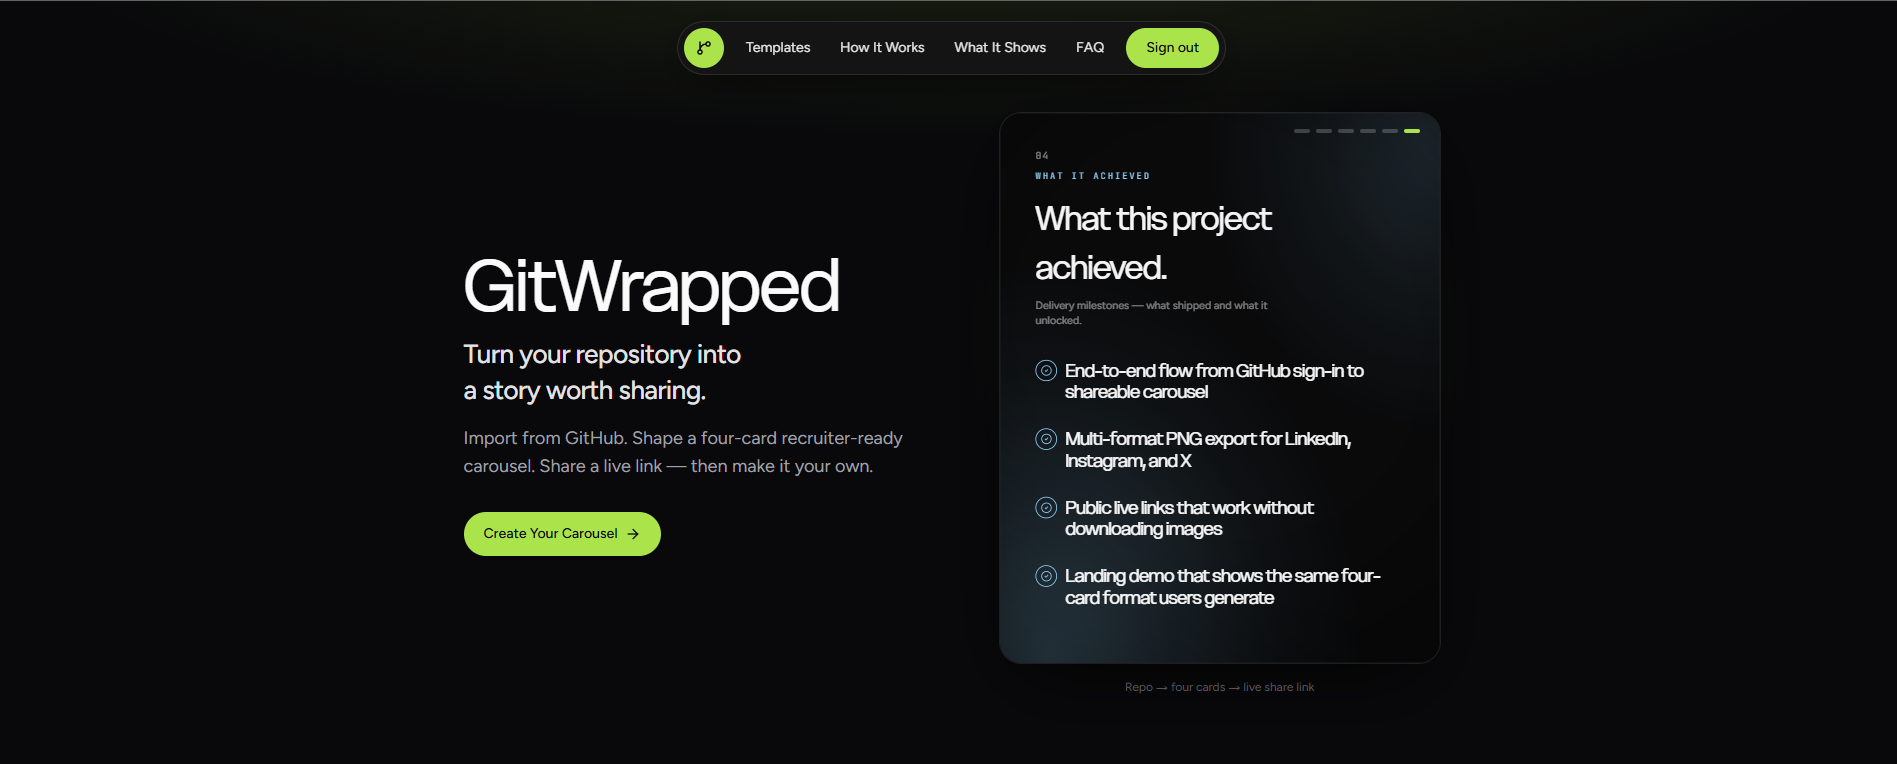
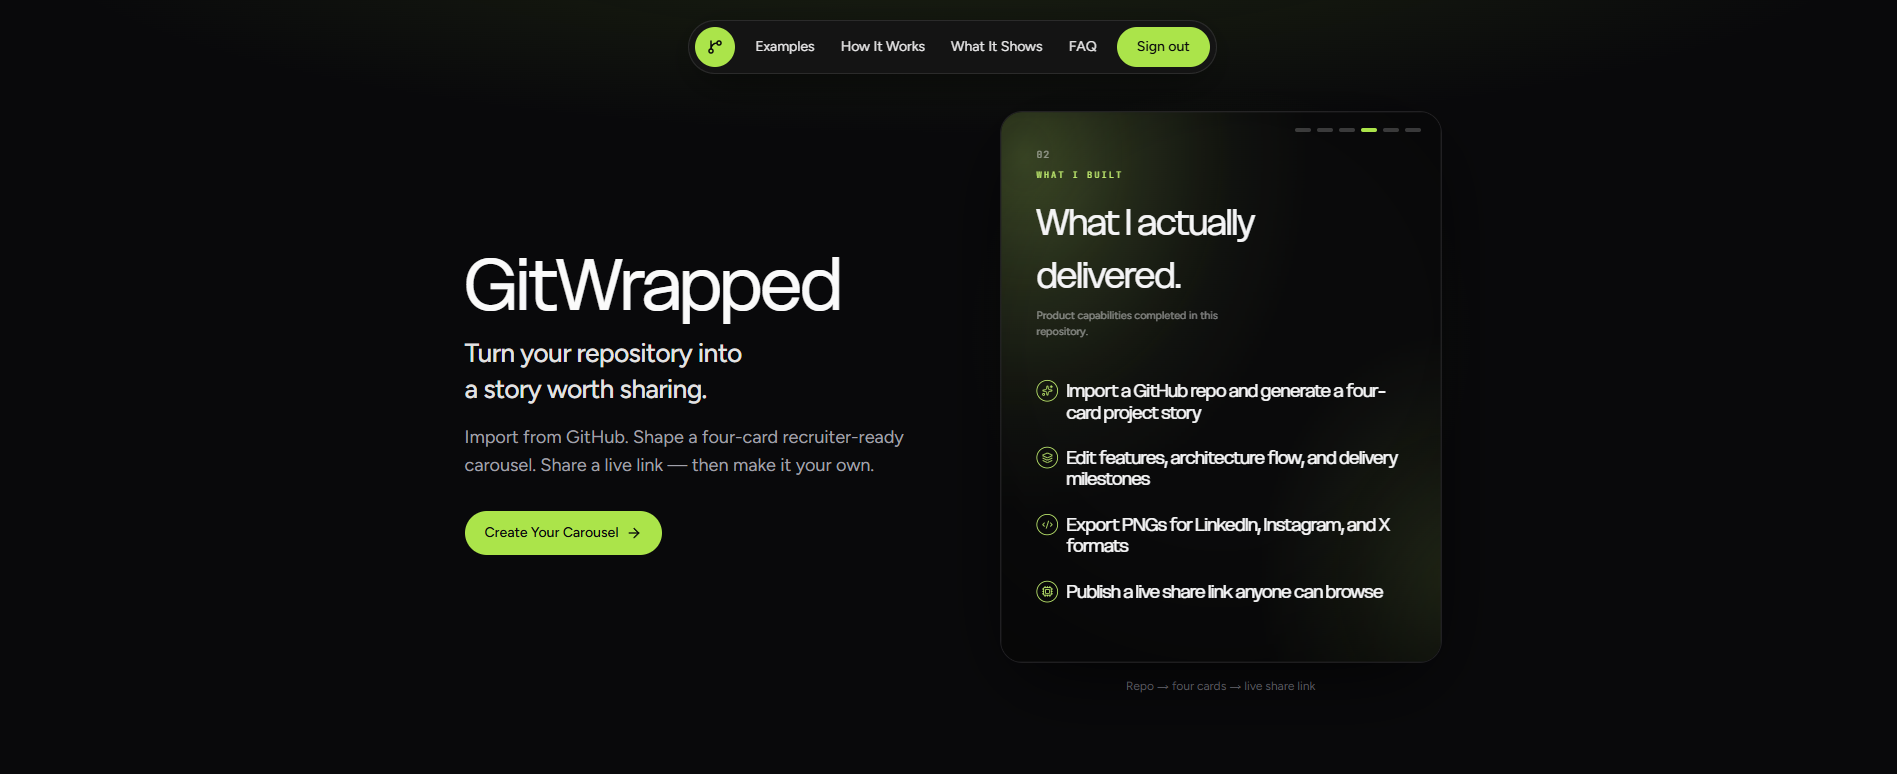
img fixed

diff --git a/src/components/carousel/slides.tsx b/src/components/carousel/slides.tsx
@@ -491,7 +491,7 @@ export function ProjectSlide({ story, format }: SlideProps) {
       <img
         src={proofImage!}
         alt="Project screenshot"
-        className="h-full w-full object-cover object-top"
+        className="absolute inset-0 h-full w-full object-cover object-top"
       />
       {mediaHref ? (
         <a
@@ -528,19 +528,15 @@ export function ProjectSlide({ story, format }: SlideProps) {
       {header}
       {heading}
       {body}
-      {withMedia
-        ? mediaFrame(
-            cn(
-              "w-full shrink-0 rounded-2xl aspect-video",
-              // Pin to bottom; pt keeps a fixed gap from content above (don't use mt-* with mt-auto)
-              landscape ? "mt-4 max-w-[58%]" : "mt-auto pt-6",
-            ),
-            {
-              borderColor: theme.border,
-              backgroundColor: hexAlpha(theme.text, 0.06),
-            },
-          )
-        : null}
+      {withMedia ? (
+        // Spacing lives on the wrapper so the image frame stays flush edge-to-edge
+        <div className={cn("w-full", landscape ? "mt-4 max-w-[58%]" : "mt-auto pt-6")}>
+          {mediaFrame("aspect-video w-full shrink-0 rounded-2xl", {
+            borderColor: theme.border,
+            backgroundColor: hexAlpha(theme.text, 0.06),
+          })}
+        </div>
+      ) : null}
     </Shell>
   );
 }